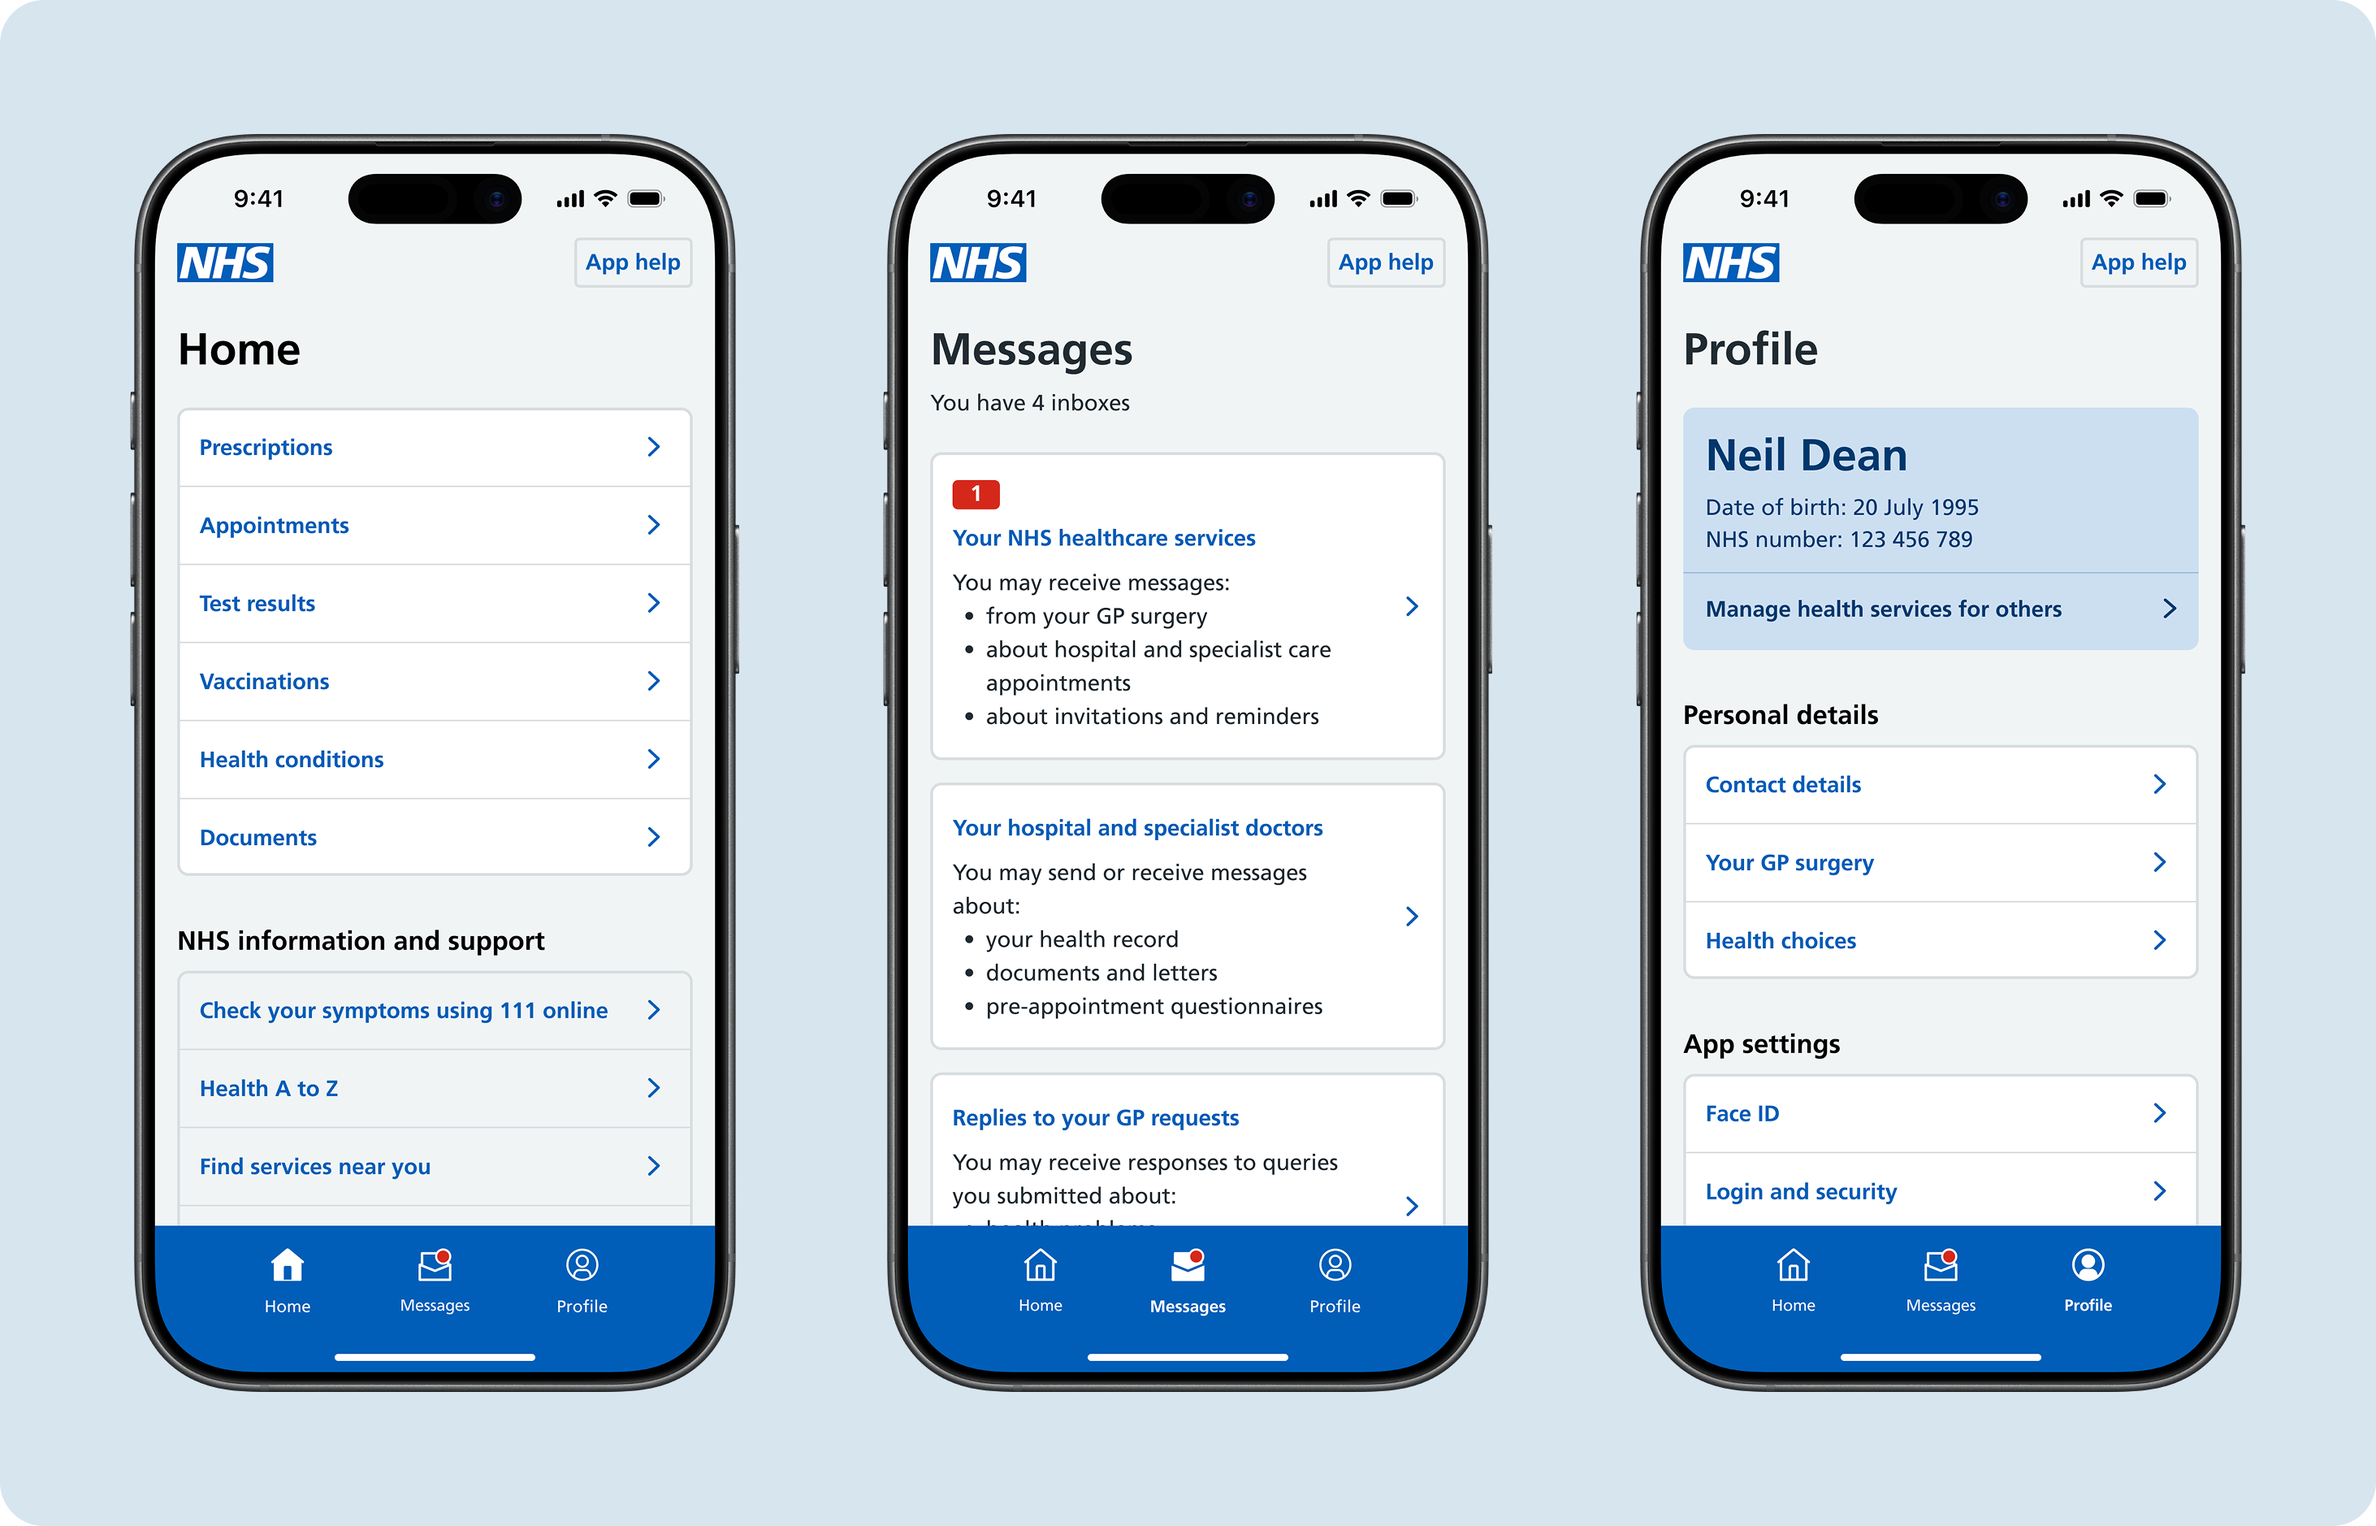
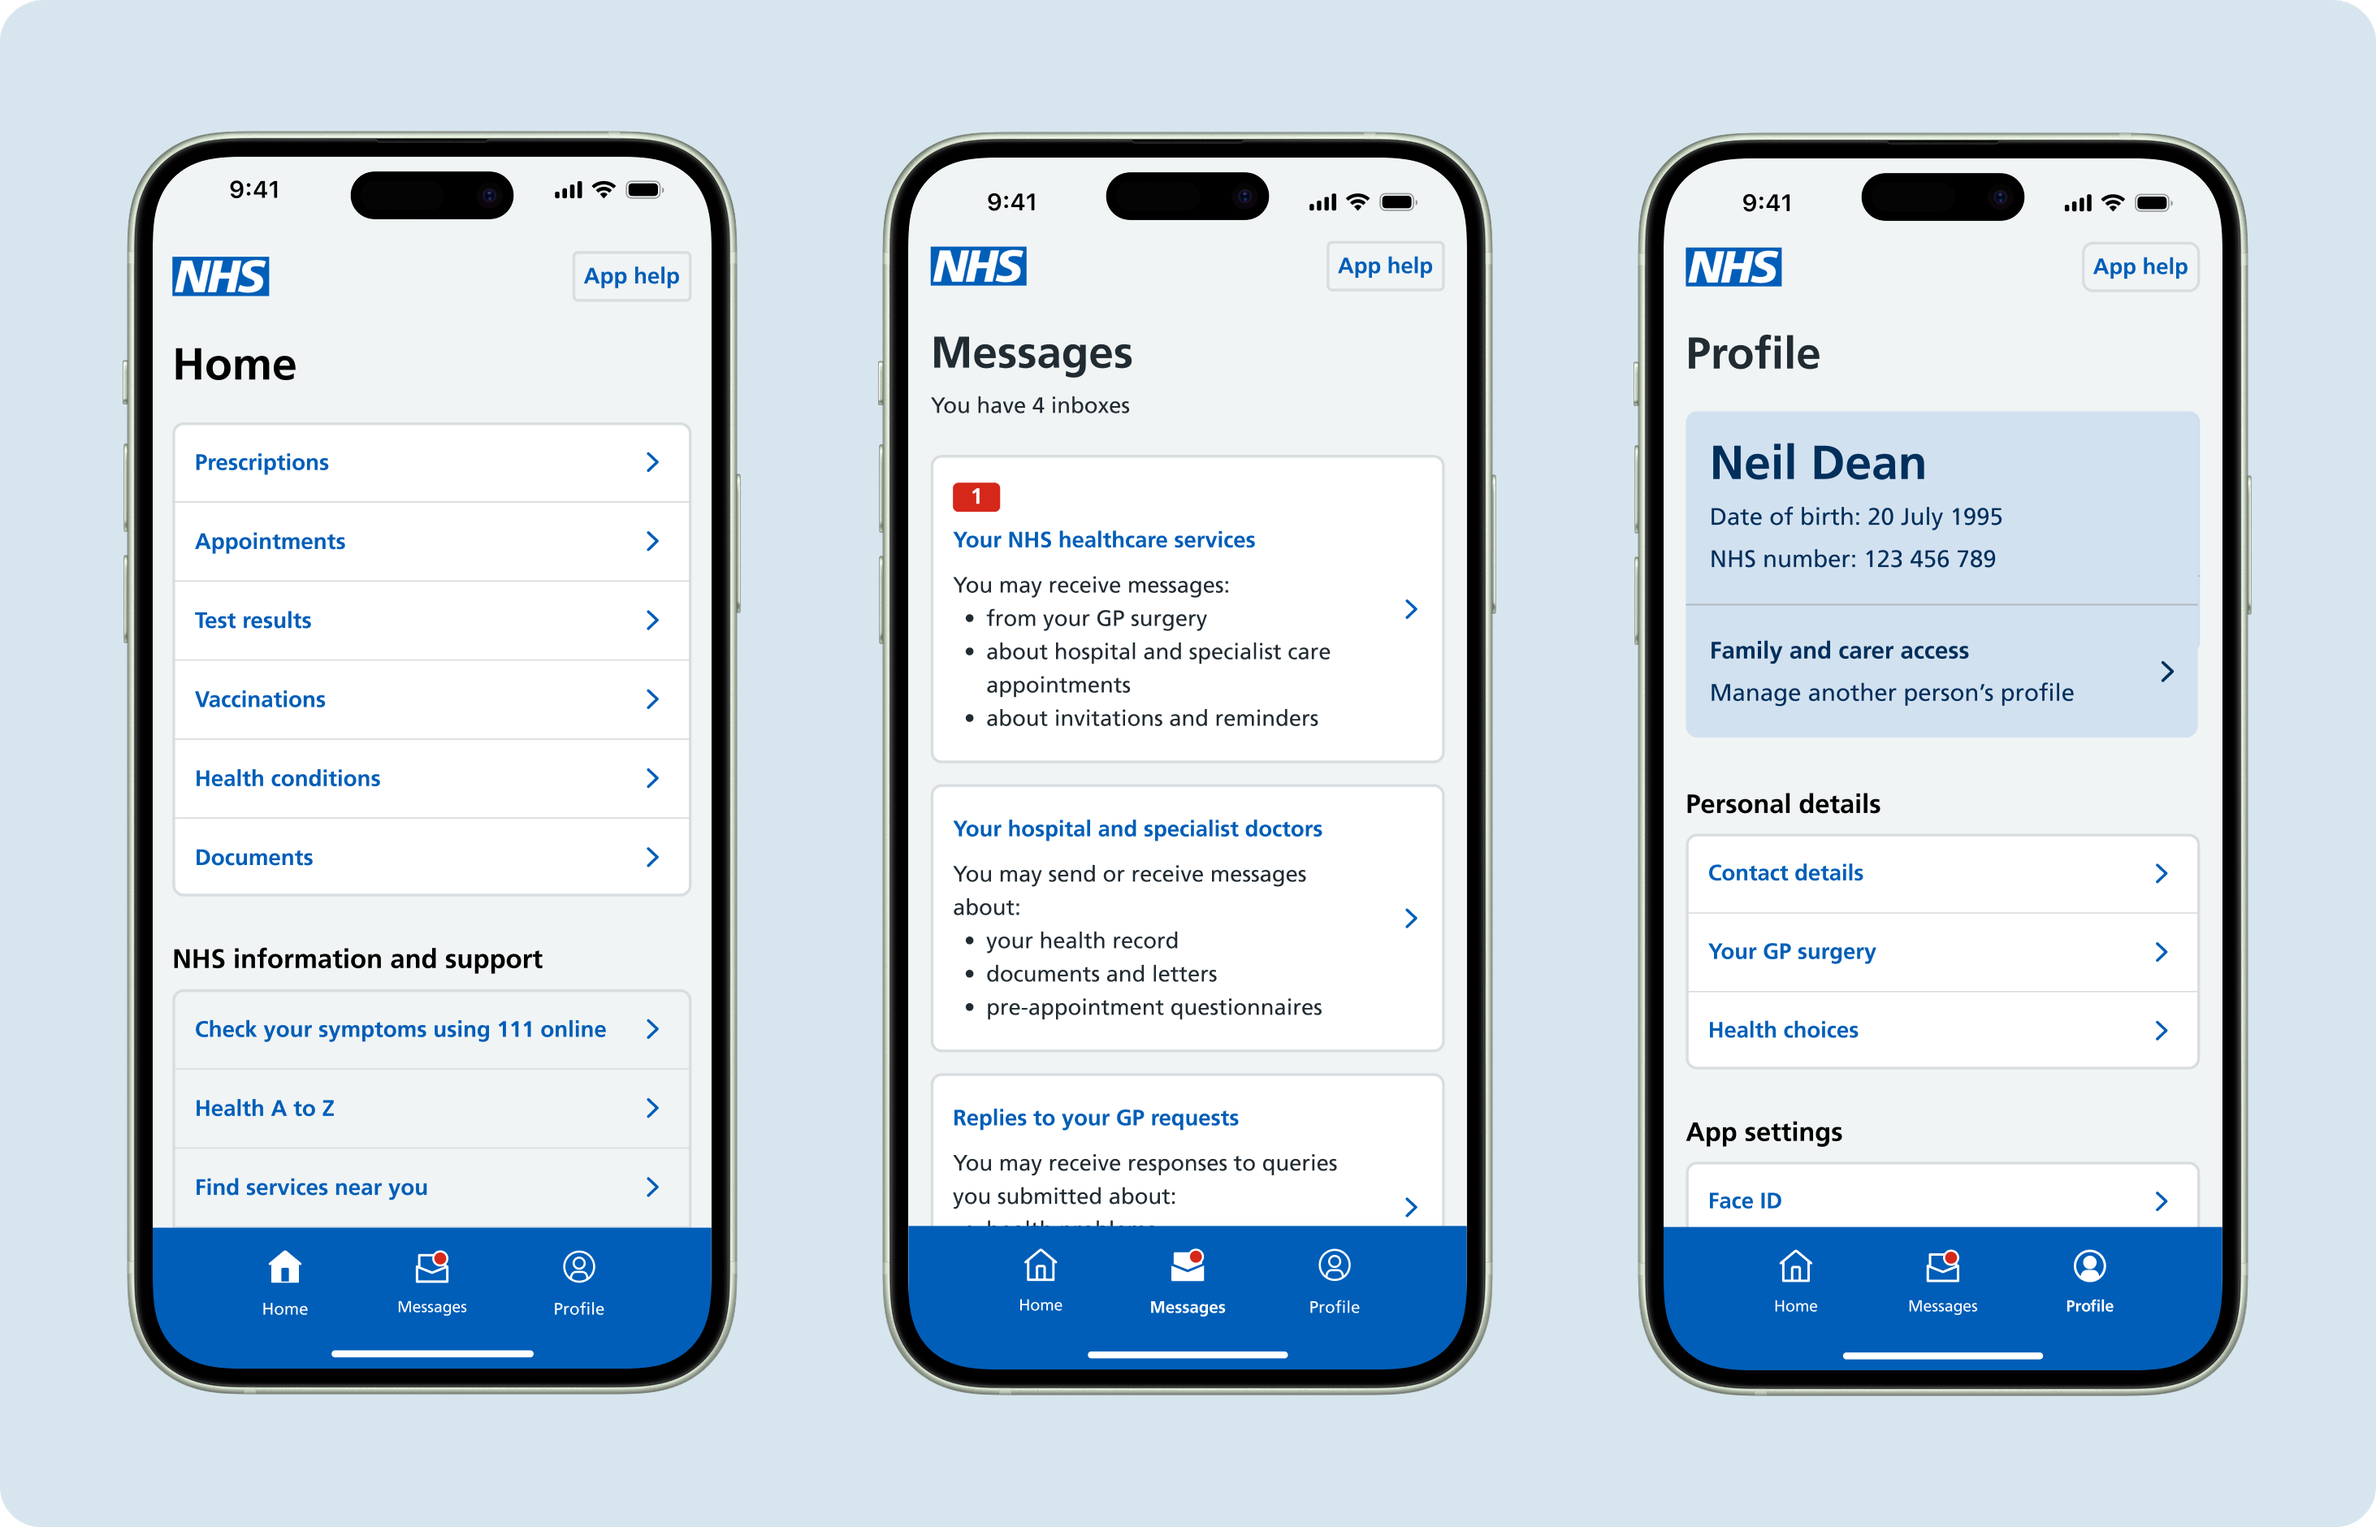
Updated screenshots and content to reflect latest Naming and Terminology release (#518)
* Add files via upload

Updated images to reflect naming and terminology changes

* Revise proxy access description in hub-page.md

Updated the description of the proxy access functionality and clarified its purpose in the Profile hub.

diff --git a/docs/patterns/hub-page.md b/docs/patterns/hub-page.md
@@ -78,9 +78,9 @@ At the top of Profile, users see a summary card showing key user details:
 - their name
 - their date of birth
 - their NHS number
-- the option to manage health services for others (proxy access)
+- navigation to family and carer access (also known as proxy access)
 
-This card provides quick access to key identifying information and proxy access functionality. Given its distinct visual appearance, it also helps users have a sense of place in the app when on the Profile hub.
+This card provides quick access to key identifying information and the ability to switch profiles using family and carer access. Given its distinct visual appearance, it also helps users have a sense of place in the app when on the Profile hub.
 
 ### Personal details and app settings
 
